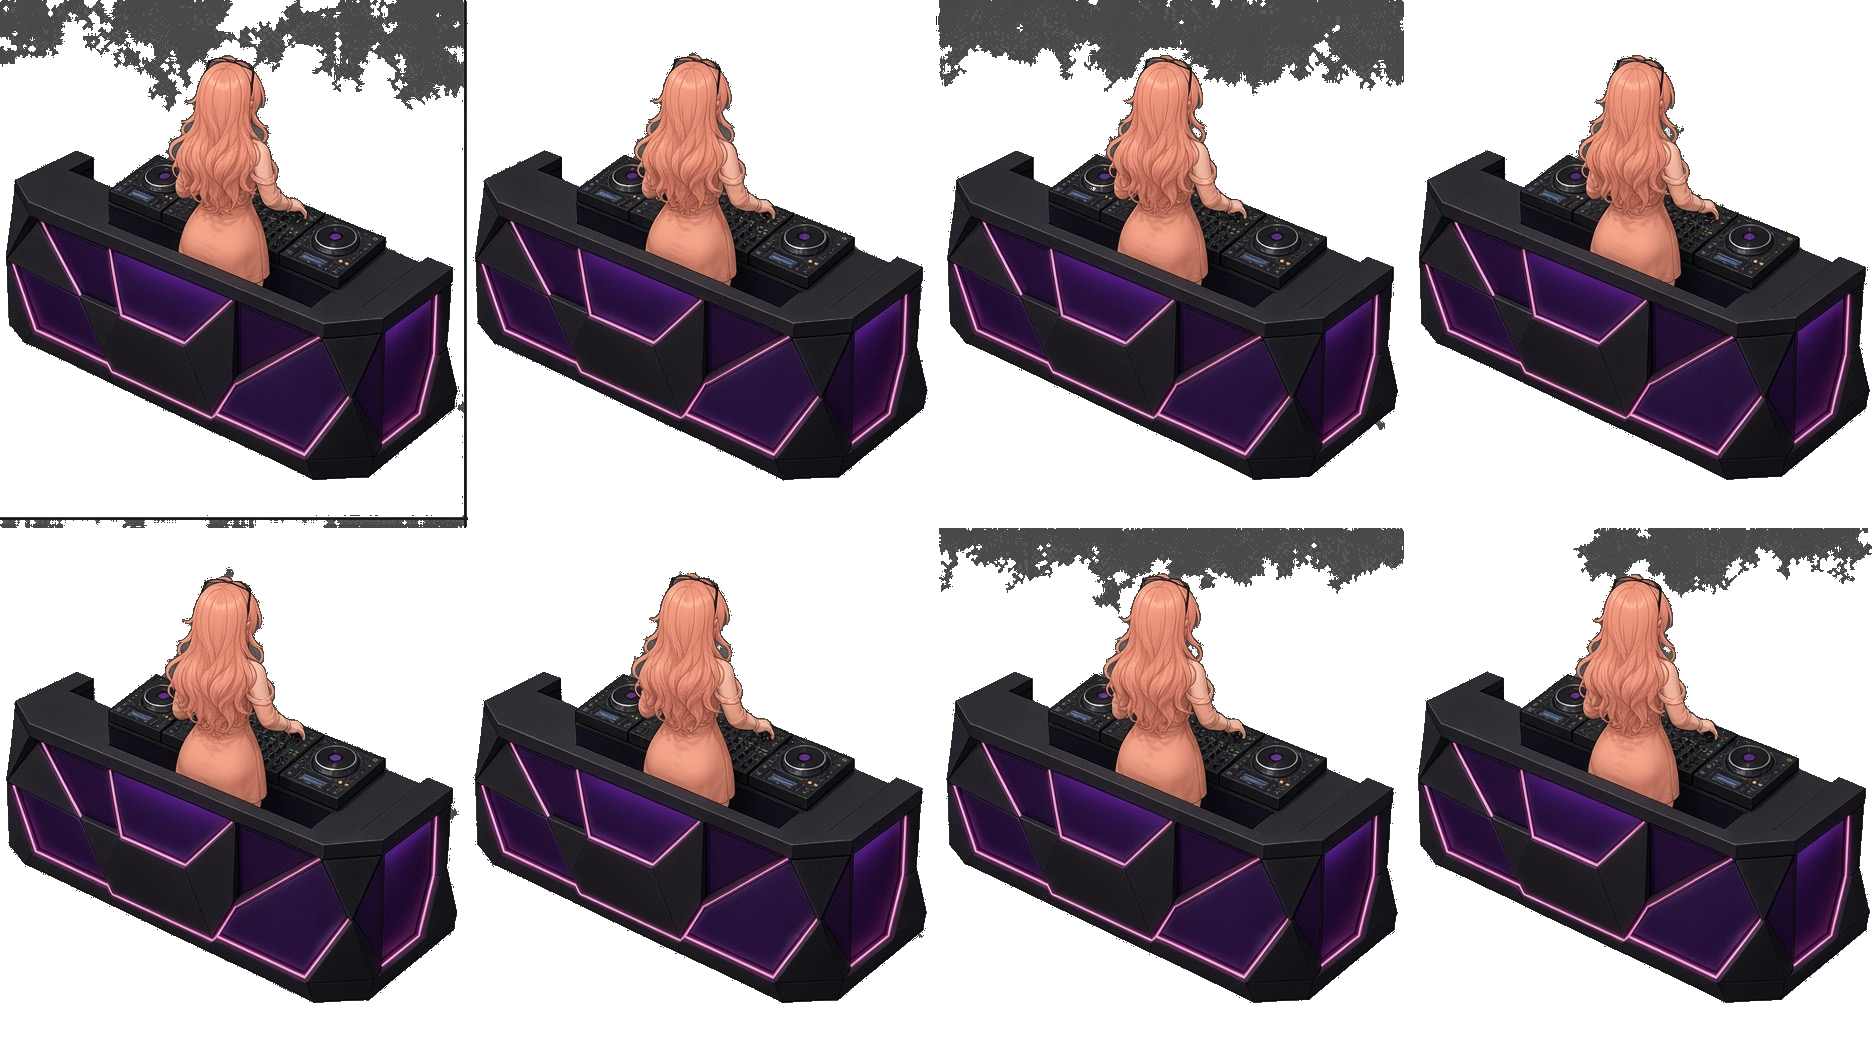
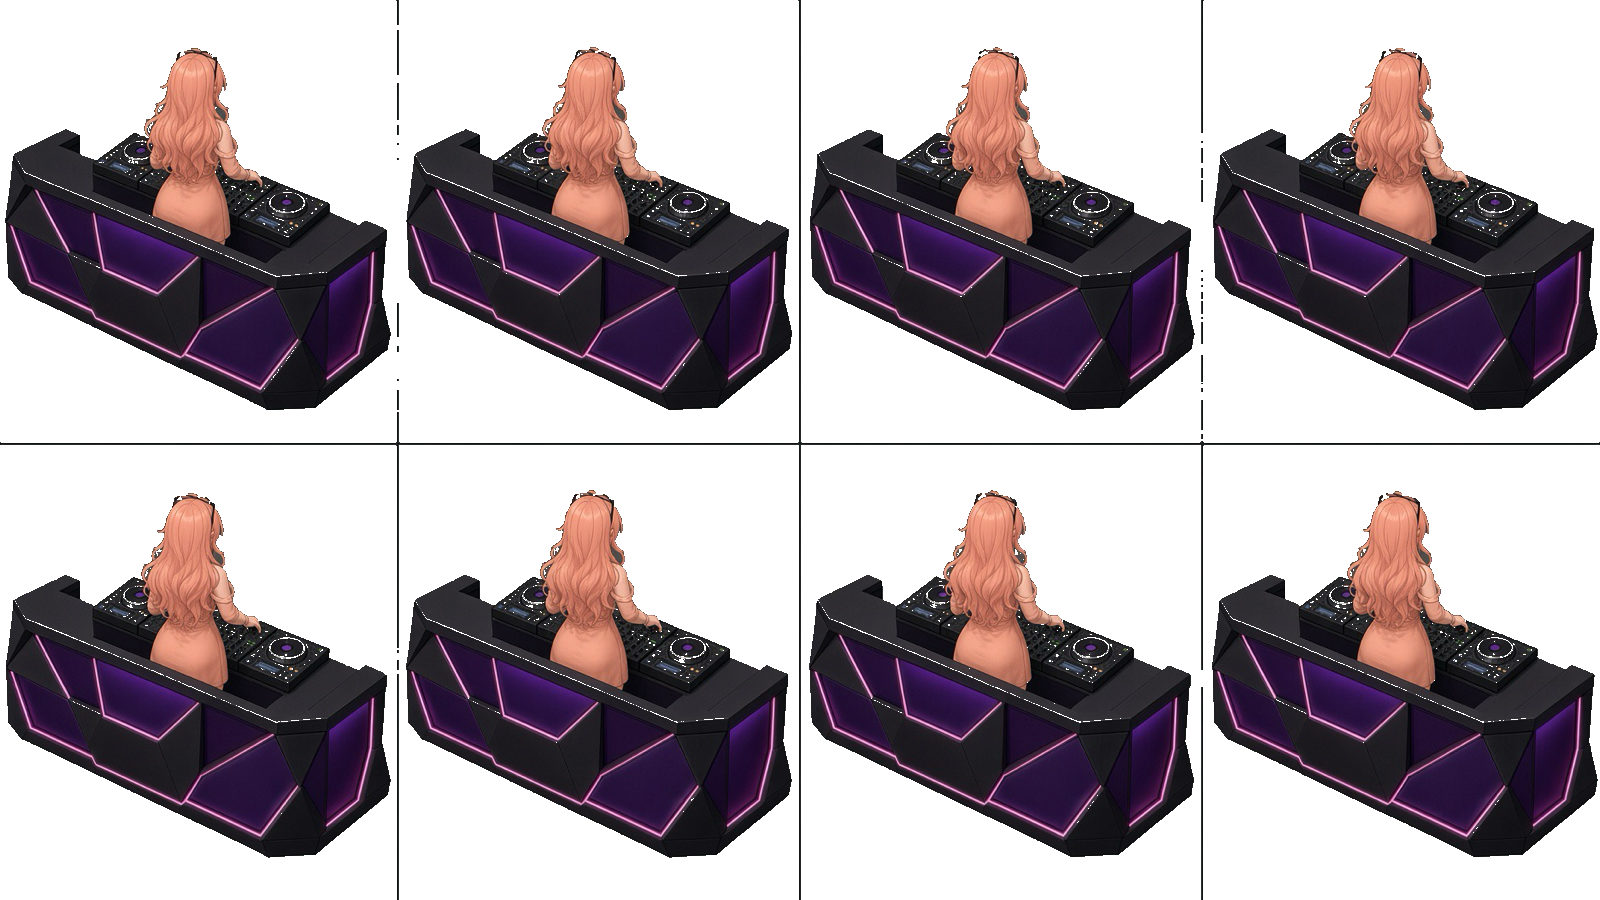
fix: DJ booth cutout/scale + pinch ZOOM_MAX 2.1
Replace front/back sheets from Carlo crops (face=front, hair-back=back);
punch residual studio gray/grid without eating neon or charcoal booth.
Scale Mesa de DJ displaySize 150x169 → 98x110 so DJ person ≈ Luna height.
Spritesheet frames 400x450; keep 4-facing Girar + $120 shop.

diff --git a/src/game/scenes/BootScene.ts b/src/game/scenes/BootScene.ts
@@ -93,12 +93,12 @@ export class BootScene extends Phaser.Scene {
     this.load.image('furn_dj_booth', 'assets/furniture/dj_booth_se.png');
     // Idle sheets (2×4): front=SE/SW, back=NE/NW
     this.load.spritesheet('dj_booth_front_sheet', 'assets/furniture/dj_booth_front_sheet.png', {
-      frameWidth: 448,
-      frameHeight: 504,
+      frameWidth: 400,
+      frameHeight: 450,
     });
     this.load.spritesheet('dj_booth_back_sheet', 'assets/furniture/dj_booth_back_sheet.png', {
-      frameWidth: 468,
-      frameHeight: 528,
+      frameWidth: 400,
+      frameHeight: 450,
     });
 
     this.load.image('tile_floor', 'assets/tiles/floor.png');

diff --git a/src/game/scenes/ClubScene.ts b/src/game/scenes/ClubScene.ts
@@ -104,7 +104,7 @@ const TAP_THRESH = 10;
 const HUD_TOP = 56;
 /** Pinch / wheel zoom clamps (initial narrow-viewport zoom still applied in setupCamera). */
 const ZOOM_MIN = 0.6;
-const ZOOM_MAX = 1.7;
+const ZOOM_MAX = 2.1;
 const WHEEL_ZOOM_STEP = 0.08;
 export type NightPhase = 'prep' | 'open' | 'summary';
 

diff --git a/scripts/process_dj_booth_sheets.py b/scripts/process_dj_booth_sheets.py
@@ -1,5 +1,5 @@
 #!/usr/bin/env python3
-"""DJ booth front/back 2x4 sheets: gray studio BG -> transparent; export placement frames."""
+"""DJ booth front/back 2x4 sheets: punch studio gray/black plate + grid; keep neon/booth."""
 from __future__ import annotations
 
 from pathlib import Path
@@ -9,102 +9,144 @@ from PIL import Image
 from scipy import ndimage
 
 ATT = Path("/home/box/agent-data/agents/f700e6ae-328d-4b52-bf56-2e253ee65a34/attachments")
-FRONT_SRC = ATT / "14f99eba592f7e320368ef3aac8db6ae50d74a2c8d36467607d50b1c0e95c8fc.jpeg"
-BACK_SRC = ATT / "9f683b115e2189801de4476b992491a22f21f0a777b9a195c6ba70af9a91fa28.jpeg"
+FRONT_SRC = ATT / "b109b6558cdf8e8e1bb20cd9144e5cd2ddff53d89641c5db4b0c9bf39c0b7578.png"  # face = front
+BACK_SRC = ATT / "3ee96ebc80057803e632cdebf1b5a1f3eca4d5aae19541c9236744d6cb8f29ae.png"  # hair-back = back
+# ref single: 8cd3e8bc4661dd191ddbec84341eab35a9680593cd13370f5eb5cafb5537508d.png
 
 OUT = Path("/workspace/night-club-sim/public/assets/furniture")
 CUTOUTS = Path("/workspace/cutouts")
+PREV = Path("/workspace/night-club-sim/tmp_bar_preview")
 COLS, ROWS = 4, 2
-# Target max frame width for placement sprites (match sofa/bar ~512)
 MAX_FRAME_W = 320
+FRAME_W, FRAME_H = 400, 450
 
 
-def gray_to_alpha(rgb: np.ndarray) -> np.ndarray:
-    """Edge-connected gray studio key; keep neon/dark charcoal subject."""
-    src = rgb.astype(np.float32)
-    h, w = src.shape[:2]
-    corners = np.stack([src[2, 2], src[2, -3], src[-3, 2], src[-3, -3]])
-    bg = corners.mean(axis=0)
-    dist = np.sqrt(((src - bg) ** 2).sum(axis=2))
-    mx = src.max(axis=2)
-    mn = src.min(axis=2)
+def normalize_sheet(im: Image.Image) -> np.ndarray:
+    rgba = np.array(im.convert("RGBA"))
+    tw, th = COLS * FRAME_W, ROWS * FRAME_H
+    h, w = rgba.shape[:2]
+    x0 = max(0, (w - tw) // 2)
+    y0 = 0 if 0 <= (h - th) <= 6 else max(0, (h - th) // 2)
+    return rgba[y0 : y0 + th, x0 : x0 + tw].copy()
+
+
+def punch_backdrop(rgba: np.ndarray) -> np.ndarray:
+    """Remove studio gray plate + grid; never eat purple neon or dark booth body."""
+    rgb = rgba[:, :, :3].astype(np.float32)
+    a0 = rgba[:, :, 3].astype(np.float32)
+    h, w = rgb.shape[:2]
+    mx = rgb.max(2)
+    mn = rgb.min(2)
     spread = mx - mn
-    luma = src.mean(axis=2)
+    luma = rgb.mean(2)
+    r, g, b = rgb[:, :, 0], rgb[:, :, 1], rgb[:, :, 2]
 
-    near_gray = (spread < 14) & (np.abs(luma - bg.mean()) < 32) & (dist < 36)
-    cand = near_gray | (dist < 10)
+    # Protect subject (RGB from original crop)
+    neon = (r > 70) & (b > 85) & (g < r * 0.94) & (spread > 16)
+    led = ((b > 105) & (b > r + 10)) | ((g > 95) & (g > r + 8))
+    dark_booth = (mx <= 68) & (a0 > 200)  # charcoal body / shadows
+    metal = (mx > 130) & (spread < 55) & (luma > 100)
+    skin_hair = (r > 110) & (g > 70) & (b > 50) & (r > g) & (spread > 12) & (a0 > 128)
+    colorful = (spread >= 18) & (a0 > 128)
+    protect = neon | led | dark_booth | metal | skin_hair | colorful
 
-    lab, _ = ndimage.label(cand)
-    border = np.unique(np.concatenate([lab[0], lab[-1], lab[:, 0], lab[:, -1]]))
-    border = border[border != 0]
-    bg_mask = np.isin(lab, border) | (near_gray & (dist < 24))
+    # Studio plate only (user crop corners ~79–90). Do NOT include charcoal booth.
+    studio = (spread < 14) & (luma >= 68) & (luma <= 125) & ~protect
+    # Leftover near-black plate blobs that are NOT dark booth (already alpha holes usually)
+    # Only kill near-black if flood-connected from clear — handled below via walk.
 
-    r, g, b = src[:, :, 0], src[:, :, 1], src[:, :, 2]
-    neon = (r > 80) & (b > 90) & (g < r * 0.88) & (spread > 22)
-    led = ((b > 110) & (b > r + 15)) | ((g > 95) & (g > r + 12)) | ((r > 130) & (g > 70) & (b < 90))
-    charcoal = (mx < 72) & (mx > 6)
-    metal = (mx > 135) & (spread < 55)
-    skin_hair = (r > 110) & (g > 70) & (b > 60) & (spread > 18)
-    force = neon | led | charcoal | metal | skin_hair | (spread >= 16) | (dist > 38)
+    seed = a0 < 12
+    seed[:2, :] = True
+    seed[-2:, :] = True
+    seed[:, :2] = True
+    seed[:, -2:] = True
+    for c in range(1, COLS):
+        x = c * FRAME_W
+        seed[:, max(0, x - 1) : min(w, x + 1)] = True
+    for rr in range(1, ROWS):
+        y = rr * FRAME_H
+        seed[max(0, y - 1) : min(h, y + 1), :] = True
 
-    alpha = np.ones((h, w), dtype=np.float32)
-    alpha = np.where(bg_mask & ~force, 0.0, alpha)
-    chroma_a = np.clip((dist - 5.0) / 14.0, 0, 1)
-    alpha = np.where(near_gray & ~force, np.minimum(alpha, chroma_a), alpha)
-    alpha = np.where(force, 1.0, alpha)
+    # Walk through studio gray + already-clear only (never through dark booth)
+    walk = studio | (a0 < 12)
+    struct = ndimage.generate_binary_structure(2, 1)  # 4-connected — less bleed
+    killed = seed & walk
+    for _ in range(max(h, w)):
+        grown = ndimage.binary_dilation(killed, structure=struct) & walk
+        if grown.sum() == killed.sum():
+            break
+        killed = grown
 
-    # Soften fringe
-    alpha = ndimage.gaussian_filter(alpha, 0.35)
-    alpha = np.clip(alpha, 0, 1)
+    # Explicit seam / rim grid kill (studio gray only)
+    seam = np.zeros((h, w), dtype=bool)
+    for c in range(COLS + 1):
+        x = min(w - 1, max(0, c * FRAME_W))
+        for dx in (-1, 0):
+            xx = x + dx
+            if 0 <= xx < w:
+                seam[:, xx] = True
+    for rr in range(ROWS + 1):
+        y = min(h - 1, max(0, rr * FRAME_H))
+        for dy in (-1, 0):
+            yy = y + dy
+            if 0 <= yy < h:
+                seam[yy, :] = True
+    seam[:2, :] = True
+    seam[-2:, :] = True
+    seam[:, :2] = True
+    seam[:, -2:] = True
+    seam_kill = seam & studio
 
-    # Keep largest component per cell-ish: whole sheet still OK (frames separated by gray)
-    bin_subj = alpha >= 0.25
-    lab2, n = ndimage.label(bin_subj)
-    if n:
-        # Keep all components that touch non-edge (frames) — drop tiny speckles
-        sizes = np.bincount(lab2.ravel())
-        sizes[0] = 0
-        keep = sizes >= max(80, int(sizes.max() * 0.002))
-        keep[0] = False
-        mask = keep[lab2]
-        alpha = np.where(mask, alpha, 0.0)
+    kill = (killed | seam_kill) & ~protect
 
-    return np.dstack([rgb, (alpha * 255).astype(np.uint8)])
+    alpha = a0.copy()
+    alpha[kill] = 0
+
+    # Soft 1px studio fringe next to clear
+    near_clear = ndimage.binary_dilation(alpha < 8, iterations=1)
+    fringe = near_clear & studio & ~protect & (alpha > 0)
+    alpha[fringe] = 0  # hard punch thin studio fringe
+
+    # Tiny studio speckles not flood-reached
+    lab, _ = ndimage.label(studio & (alpha > 200))
+    sizes = np.bincount(lab.ravel())
+    sizes[0] = 0
+    tiny = sizes < 25
+    tiny[0] = False
+    alpha[tiny[lab] & ~protect] = 0
+
+    # Restore protected opacity
+    alpha[protect & (a0 > 200)] = 255
+
+    out_rgb = rgb.astype(np.uint8).copy()
+    out_rgb[alpha < 8] = 0
+    return np.dstack([out_rgb, alpha.astype(np.uint8)])
 
 
-def process_sheet(src: Path, name: str) -> tuple[Image.Image, int, int]:
-    im = Image.open(src).convert("RGB")
-    w, h = im.size
-    assert w % COLS == 0 and h % ROWS == 0, (name, im.size)
-    fw, fh = w // COLS, h // ROWS
-    rgba = gray_to_alpha(np.array(im))
-    out = Image.fromarray(rgba, "RGBA")
-    dest = OUT / name
-    dest.parent.mkdir(parents=True, exist_ok=True)
-    out.save(dest, "PNG", optimize=True)
+def process_sheet(src: Path, name: str) -> Image.Image:
+    arr = punch_backdrop(normalize_sheet(Image.open(src)))
+    out = Image.fromarray(arr, "RGBA")
+    OUT.mkdir(parents=True, exist_ok=True)
     CUTOUTS.mkdir(parents=True, exist_ok=True)
+    PREV.mkdir(parents=True, exist_ok=True)
+    out.save(OUT / name, "PNG", optimize=True)
     out.save(CUTOUTS / name, "PNG")
-    a = rgba[:, :, 3]
+    a = arr[:, :, 3]
     print(
-        f"saved {dest} {out.size} frame={fw}x{fh} opaque={(a>250).sum()} "
-        f"partial={((a>5)&(a<=250)).sum()} clear={(a<=5).sum()}"
+        f"saved {name} {out.size} a0={(a < 8).sum()} a255={(a > 250).sum()} "
+        f"partial={((a >= 8) & (a <= 250)).sum()}"
     )
-    return out, fw, fh
+    return out
 
 
-def crop_frame(sheet: Image.Image, fw: int, fh: int, index: int) -> Image.Image:
-    col = index % COLS
-    row = index // COLS
-    cell = sheet.crop((col * fw, row * fh, (col + 1) * fw, (row + 1) * fh))
+def crop_frame(sheet: Image.Image, index: int) -> Image.Image:
+    col, row = index % COLS, index // COLS
+    cell = sheet.crop((col * FRAME_W, row * FRAME_H, (col + 1) * FRAME_W, (row + 1) * FRAME_H))
     arr = np.array(cell)
     ys, xs = np.where(arr[:, :, 3] > 12)
-    if len(xs) == 0:
-        return cell
     pad = 4
-    y0 = max(0, int(ys.min()) - pad)
-    y1 = min(arr.shape[0], int(ys.max()) + 1 + pad)
-    x0 = max(0, int(xs.min()) - pad)
-    x1 = min(arr.shape[1], int(xs.max()) + 1 + pad)
+    y0, y1 = max(0, int(ys.min()) - pad), min(arr.shape[0], int(ys.max()) + 1 + pad)
+    x0, x1 = max(0, int(xs.min()) - pad), min(arr.shape[1], int(xs.max()) + 1 + pad)
     cropped = Image.fromarray(arr[y0:y1, x0:x1], "RGBA")
     if cropped.width > MAX_FRAME_W:
         nh = int(round(cropped.height * (MAX_FRAME_W / cropped.width)))
@@ -115,49 +157,102 @@ def crop_frame(sheet: Image.Image, fw: int, fh: int, index: int) -> Image.Image:
 def checker(img: Image.Image, path: Path) -> None:
     rgba = np.array(img)
     h, w = rgba.shape[:2]
-    tile = 16
     yy, xx = np.indices((h, w))
-    chk = np.where(((xx // tile) + (yy // tile)) % 2 == 0, 220, 60).astype(np.float32)
+    chk = np.where(((xx // 14) + (yy // 14)) % 2 == 0, 210, 70).astype(np.float32)
     af = rgba[:, :, 3].astype(np.float32) / 255.0
-    rgb = rgba[:, :, :3].astype(np.float32)
-    comp = (rgb * af[..., None] + np.dstack([chk, chk, chk]) * (1 - af[..., None])).astype(np.uint8)
-    Image.fromarray(comp, "RGB").save(path, "JPEG", quality=88)
+    comp = (rgba[:, :, :3].astype(np.float32) * af[..., None] + chk[..., None] * (1 - af[..., None])).astype(
+        np.uint8
+    )
+    Image.fromarray(comp, "RGB").save(path, "JPEG", quality=90)
+
+
+def measure_person_h(sheet: Image.Image) -> int:
+    cell = np.array(sheet.crop((0, 0, FRAME_W, FRAME_H)))
+    rgb = cell[:, :, :3].astype(float)
+    r, g, b = rgb[:, :, 0], rgb[:, :, 1], rgb[:, :, 2]
+    alpha = cell[:, :, 3]
+    hair = (alpha > 200) & (r > 150) & (g > 90) & (b > 50) & (r > g + 20) & (g > b)
+    ys = np.where(hair.any(axis=1))[0]
+    hair_top = int(ys[0]) if len(ys) else 40
+    spread = rgb.max(2) - rgb.min(2)
+    subj = (alpha > 180) & ~((spread < 14) & (rgb.mean(2) >= 68) & (rgb.mean(2) <= 125))
+    widths = subj.sum(1)
+    booth_start = hair_top + 100
+    for y in range(hair_top + 50, FRAME_H):
+        if widths[y] > int(FRAME_W * 0.68):
+            booth_start = y
+            break
+    return max(60, booth_start - hair_top), hair_top, booth_start
 
 
 def main() -> None:
-    front, ffw, ffh = process_sheet(FRONT_SRC, "dj_booth_front_sheet.png")
-    back, bfw, bfh = process_sheet(BACK_SRC, "dj_booth_back_sheet.png")
+    front = process_sheet(FRONT_SRC, "dj_booth_front_sheet.png")
+    back = process_sheet(BACK_SRC, "dj_booth_back_sheet.png")
 
-    # Placement: frame 0 of each sheet; flip for SW/NW
-    se = crop_frame(front, ffw, ffh, 0)
+    se = crop_frame(front, 0)
     sw = se.transpose(Image.Transpose.FLIP_LEFT_RIGHT)
-    ne = crop_frame(back, bfw, bfh, 0)
+    ne = crop_frame(back, 0)
     nw = ne.transpose(Image.Transpose.FLIP_LEFT_RIGHT)
-
-    mapping = {
+    for name, img in {
         "dj_booth_se.png": se,
         "dj_booth_sw.png": sw,
         "dj_booth_ne.png": ne,
         "dj_booth_nw.png": nw,
-        # Keep legacy key as SE for shop thumb / old refs
         "dj_booth.png": se.copy(),
-    }
-    for name, img in mapping.items():
-        p = OUT / name
-        img.save(p, "PNG", optimize=True)
+    }.items():
+        img.save(OUT / name, "PNG", optimize=True)
         img.save(CUTOUTS / name, "PNG")
         checker(img, CUTOUTS / name.replace(".png", "_check.jpg"))
         print(f"placement {name} {img.size}")
 
-    # Meta for game code
+    person_h, hair_top, booth_y = measure_person_h(front)
+    luna = 88 * 417 / 784
+    display_h = int(round(luna * FRAME_H / person_h))
+    display_w = int(round(display_h * FRAME_W / FRAME_H))
+    # Prefer tidy pair close to measured
+    if abs(display_h - 110) <= 3:
+        display_h, display_w = 110, 98
+    print(f"person_h={person_h} ({hair_top}->{booth_y}) luna={luna:.1f} → displaySize=[{display_w},{display_h}]")
+
+    for label, im in ("front", front), ("back", back):
+        a = np.array(im)
+        rgb = a[:, :, :3].astype(np.int16)
+        spread = np.max(rgb, 2) - np.min(rgb, 2)
+        luma = rgb.mean(2)
+        studio_left = (a[:, :, 3] > 200) & (spread < 14) & (luma >= 68) & (luma <= 125)
+        near = ndimage.binary_dilation(a[:, :, 3] < 8, iterations=2)
+        neon = (a[:, :, 3] > 128) & (a[:, :, 0] > 70) & (a[:, :, 2] > 85) & (a[:, :, 1] < a[:, :, 0] * 0.94)
+        dark = (a[:, :, 3] > 200) & (a.max(2) <= 68)
+        print(
+            f"QA {label}: studio_fringe={(studio_left & near).sum()} studio_interior={studio_left.sum()} "
+            f"neon={neon.sum()} dark={dark.sum()}"
+        )
+
     meta = OUT / "dj_booth_sheet_meta.txt"
     meta.write_text(
-        f"front_sheet={front.size[0]}x{front.size[1]} frame={ffw}x{ffh} cols={COLS} rows={ROWS}\n"
-        f"back_sheet={back.size[0]}x{back.size[1]} frame={bfw}x{bfh} cols={COLS} rows={ROWS}\n"
+        f"front_sheet={front.size[0]}x{front.size[1]} frame={FRAME_W}x{FRAME_H} cols={COLS} rows={ROWS}\n"
+        f"back_sheet={back.size[0]}x{back.size[1]} frame={FRAME_W}x{FRAME_H} cols={COLS} rows={ROWS}\n"
         f"facing: se=front frame0, sw=front flip, ne=back frame0, nw=back flip\n"
         f"placement_se={se.size[0]}x{se.size[1]} ne={ne.size[0]}x{ne.size[1]}\n"
+        f"person_h_px={person_h} displaySize=[{display_w}, {display_h}]\n"
+        f"sources: front=b109b655…png back=3ee96ebc…png ref=8cd3e8bc…png\n"
     )
     print(meta.read_text())
+    checker(front.crop((0, 0, FRAME_W, FRAME_H)), PREV / "dj_front_f0_check.jpg")
+    checker(back.crop((0, 0, FRAME_W, FRAME_H)), PREV / "dj_back_f0_check.jpg")
+    # strip
+    for tag, sheet in ("front", front), ("back", back):
+        frames = [
+            sheet.crop((i % 4 * FRAME_W, i // 4 * FRAME_H, i % 4 * FRAME_W + FRAME_W, i // 4 * FRAME_H + FRAME_H)).resize(
+                (100, 112), Image.Resampling.LANCZOS
+            )
+            for i in range(8)
+        ]
+        canvas = Image.new("RGBA", (800, 112))
+        for i, f in enumerate(frames):
+            canvas.paste(f, (i * 100, 0), f)
+        checker(canvas, PREV / f"dj_{tag}_strip.jpg")
+    (PREV / "dj_display_size.txt").write_text(f"{display_w},{display_h},{person_h}\n")
 
 
 if __name__ == "__main__":
